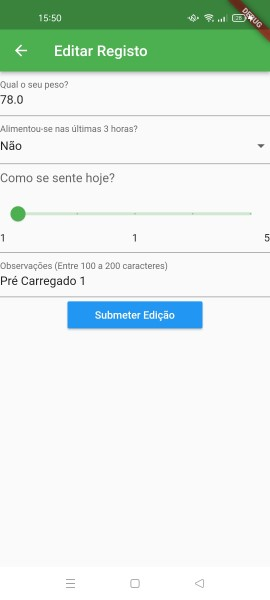
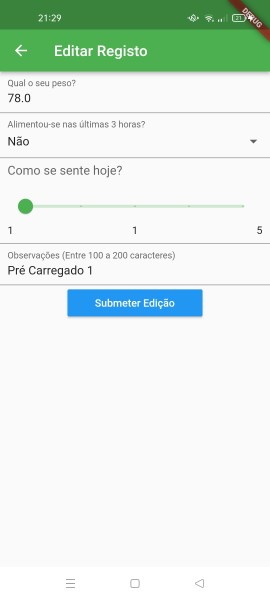
Added padding in "visualizar" same problem as "editar", changed screenshots for both, just need to do unit tests

diff --git a/lib/screens/adicionar.dart b/lib/screens/adicionar.dart
@@ -34,6 +34,7 @@ class _AdicionarScreenState extends State<AdicionarScreen> {
               children: <Widget>[
                 FormBuilderTextField(
                   decoration: InputDecoration(
+                    contentPadding: const EdgeInsets.all(10),
                     labelText: 'Qual o seu peso?',
                   ),
                   keyboardType: TextInputType.number,
@@ -45,6 +46,7 @@ class _AdicionarScreenState extends State<AdicionarScreen> {
                 ),
                 FormBuilderDropdown(
                   decoration: InputDecoration(
+                    contentPadding: const EdgeInsets.all(10),
                     labelText: 'Alimentou-se nas últimas 3 horas?',
                   ),
                   items: ['Sim', 'Não']
@@ -58,6 +60,7 @@ class _AdicionarScreenState extends State<AdicionarScreen> {
                 ),
                 FormBuilderSlider(
                   decoration: InputDecoration(
+                    contentPadding: const EdgeInsets.all(10),
                       labelText: 'Como se sente hoje?',
                       labelStyle: TextStyle(
                         fontSize: 22.0,
@@ -74,6 +77,7 @@ class _AdicionarScreenState extends State<AdicionarScreen> {
                 ),
                 FormBuilderTextField(
                   decoration: InputDecoration(
+                    contentPadding: const EdgeInsets.all(10),
                     labelText: 'Observações (Entre 100 a 200 caracteres)',
                   ),
                   keyboardType: TextInputType.multiline,

diff --git a/README.md b/README.md
@@ -1,8 +1,7 @@
 # Mini Projeto Flutter - CM
 
 ## Falta Fazer
-1. Fazer Editar Outravez
-2. Testes Unitarios
+1. Testes Unitarios
 
 ## Feito por: Pedro Costa - a21904825
 
